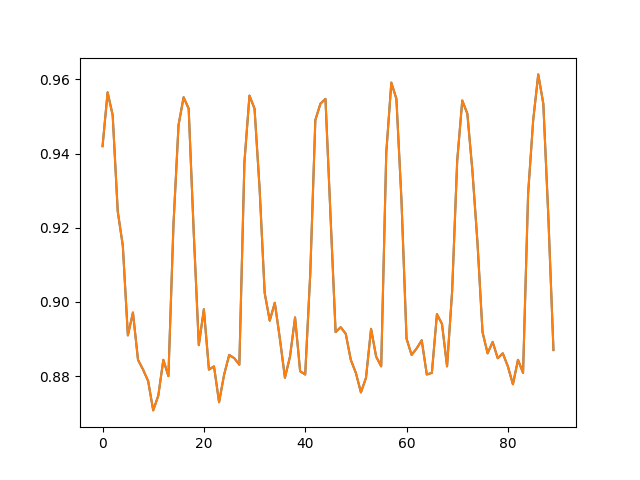
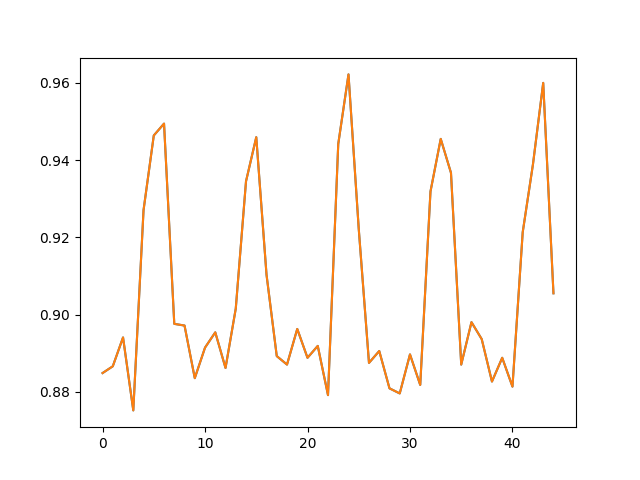
teste 2

diff --git a/plot.py b/plot.py
@@ -15,5 +15,5 @@ def plotAll(source, path):
     plt.savefig(path)
     plt.clf
 
-plotXLines("voltage.csv", "plot1.png", 90)
+plotXLines("voltage.csv", "plot1.png", 45)
 plotAll("voltage.csv", "plot2.png")

diff --git a/analogIn.py b/analogIn.py
@@ -8,7 +8,7 @@ def readData():
 
 ADC.setup()
 pin = "P9_37"
-hz = 2700
+hz = 1350
 a = []
 t = 2
 
